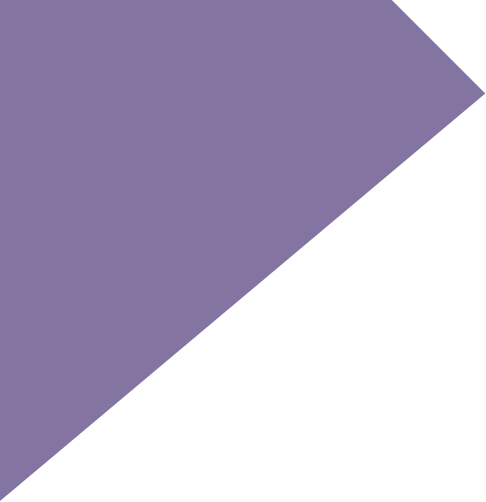
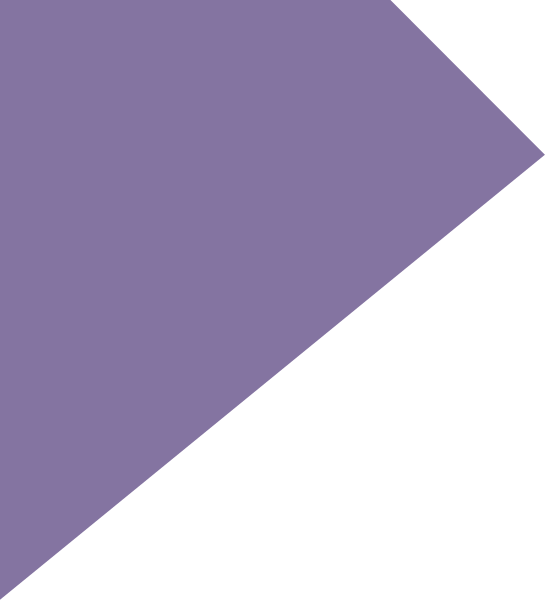
update for main window

diff --git a/EventsPlanner/src/UI/animationLoginWindow.java b/EventsPlanner/src/UI/animationLoginWindow.java
@@ -1,0 +1,125 @@
+/*
+ * To change this license header, choose License Headers in Project Properties.
+ * To change this template file, choose Tools | Templates
+ * and open the template in the editor.
+ */
+package UI;
+
+import AppPackage.AnimationClass;
+
+/**
+ *
+ * @author mapac
+ */
+public class animationLoginWindow extends javax.swing.JFrame {
+
+    /**
+     * Creates new form animationLoginWindow
+     */
+    public animationLoginWindow() {
+        initComponents();
+        this.setLocationRelativeTo(null);
+        
+        AnimationClass anim = new AnimationClass();
+        
+        anim.jLabelXLeft(mainFigure1.getX(), -1000, 3, 1, mainFigure1);
+        anim.jLabelXRight(mainFigure2.getX(), 1000, 3, 1, mainFigure2);
+        anim.jLabelYDown(mainFigure3.getY(), 1000, 3, 1, mainFigure3);
+        anim.jLabelYDown(mainFigure4.getY(), 1000, 3, 1, mainFigure4);
+        
+        
+    }
+
+    /**
+     * This method is called from within the constructor to initialize the form.
+     * WARNING: Do NOT modify this code. The content of this method is always
+     * regenerated by the Form Editor.
+     */
+    @SuppressWarnings("unchecked")
+    // <editor-fold defaultstate="collapsed" desc="Generated Code">//GEN-BEGIN:initComponents
+    private void initComponents() {
+
+        jPanel1 = new javax.swing.JPanel();
+        mainFigure1 = new javax.swing.JLabel();
+        mainFigure2 = new javax.swing.JLabel();
+        mainFigure3 = new javax.swing.JLabel();
+        mainFigure4 = new javax.swing.JLabel();
+
+        setDefaultCloseOperation(javax.swing.WindowConstants.EXIT_ON_CLOSE);
+        setMinimumSize(new java.awt.Dimension(1000, 600));
+        setUndecorated(true);
+        setPreferredSize(new java.awt.Dimension(1000, 600));
+        setResizable(false);
+        setSize(new java.awt.Dimension(1000, 600));
+        getContentPane().setLayout(new org.netbeans.lib.awtextra.AbsoluteLayout());
+
+        jPanel1.setBackground(new java.awt.Color(255, 255, 255));
+        jPanel1.setMinimumSize(new java.awt.Dimension(1000, 600));
+        jPanel1.setPreferredSize(new java.awt.Dimension(1000, 100));
+        jPanel1.setLayout(new org.netbeans.lib.awtextra.AbsoluteLayout());
+
+        mainFigure1.setHorizontalAlignment(javax.swing.SwingConstants.CENTER);
+        mainFigure1.setIcon(new javax.swing.ImageIcon(getClass().getResource("/Images/MainFigure1.png"))); // NOI18N
+        jPanel1.add(mainFigure1, new org.netbeans.lib.awtextra.AbsoluteConstraints(-23, -5, 590, 610));
+
+        mainFigure2.setHorizontalAlignment(javax.swing.SwingConstants.CENTER);
+        mainFigure2.setIcon(new javax.swing.ImageIcon(getClass().getResource("/Images/MainFigure2.png"))); // NOI18N
+        jPanel1.add(mainFigure2, new org.netbeans.lib.awtextra.AbsoluteConstraints(385, -5, 620, 610));
+
+        mainFigure3.setHorizontalAlignment(javax.swing.SwingConstants.CENTER);
+        mainFigure3.setIcon(new javax.swing.ImageIcon(getClass().getResource("/Images/MainFigure3.png"))); // NOI18N
+        jPanel1.add(mainFigure3, new org.netbeans.lib.awtextra.AbsoluteConstraints(306, 152, 700, 450));
+
+        mainFigure4.setHorizontalAlignment(javax.swing.SwingConstants.CENTER);
+        mainFigure4.setIcon(new javax.swing.ImageIcon(getClass().getResource("/Images/MainFigure4.png"))); // NOI18N
+        jPanel1.add(mainFigure4, new org.netbeans.lib.awtextra.AbsoluteConstraints(-3, 343, 580, 260));
+
+        getContentPane().add(jPanel1, new org.netbeans.lib.awtextra.AbsoluteConstraints(0, 0, 1000, 630));
+        jPanel1.getAccessibleContext().setAccessibleDescription("");
+
+        pack();
+    }// </editor-fold>//GEN-END:initComponents
+
+    /**
+     * @param args the command line arguments
+     */
+    public static void main(String args[]) {
+        /* Set the Nimbus look and feel */
+        //<editor-fold defaultstate="collapsed" desc=" Look and feel setting code (optional) ">
+        /* If Nimbus (introduced in Java SE 6) is not available, stay with the default look and feel.
+         * For details see http://download.oracle.com/javase/tutorial/uiswing/lookandfeel/plaf.html 
+         */
+        try {
+            for (javax.swing.UIManager.LookAndFeelInfo info : javax.swing.UIManager.getInstalledLookAndFeels()) {
+                if ("Nimbus".equals(info.getName())) {
+                    javax.swing.UIManager.setLookAndFeel(info.getClassName());
+                    break;
+                }
+            }
+        } catch (ClassNotFoundException ex) {
+            java.util.logging.Logger.getLogger(animationLoginWindow.class.getName()).log(java.util.logging.Level.SEVERE, null, ex);
+        } catch (InstantiationException ex) {
+            java.util.logging.Logger.getLogger(animationLoginWindow.class.getName()).log(java.util.logging.Level.SEVERE, null, ex);
+        } catch (IllegalAccessException ex) {
+            java.util.logging.Logger.getLogger(animationLoginWindow.class.getName()).log(java.util.logging.Level.SEVERE, null, ex);
+        } catch (javax.swing.UnsupportedLookAndFeelException ex) {
+            java.util.logging.Logger.getLogger(animationLoginWindow.class.getName()).log(java.util.logging.Level.SEVERE, null, ex);
+        }
+        //</editor-fold>
+
+        /* Create and display the form */
+        java.awt.EventQueue.invokeLater(new Runnable() {
+            public void run() {
+                new animationLoginWindow().setVisible(true);
+            }
+        });
+    }
+
+    // Variables declaration - do not modify//GEN-BEGIN:variables
+    private javax.swing.JPanel jPanel1;
+    private javax.swing.JLabel mainFigure1;
+    private javax.swing.JLabel mainFigure2;
+    private javax.swing.JLabel mainFigure3;
+    private javax.swing.JLabel mainFigure4;
+    // End of variables declaration//GEN-END:variables
+}
